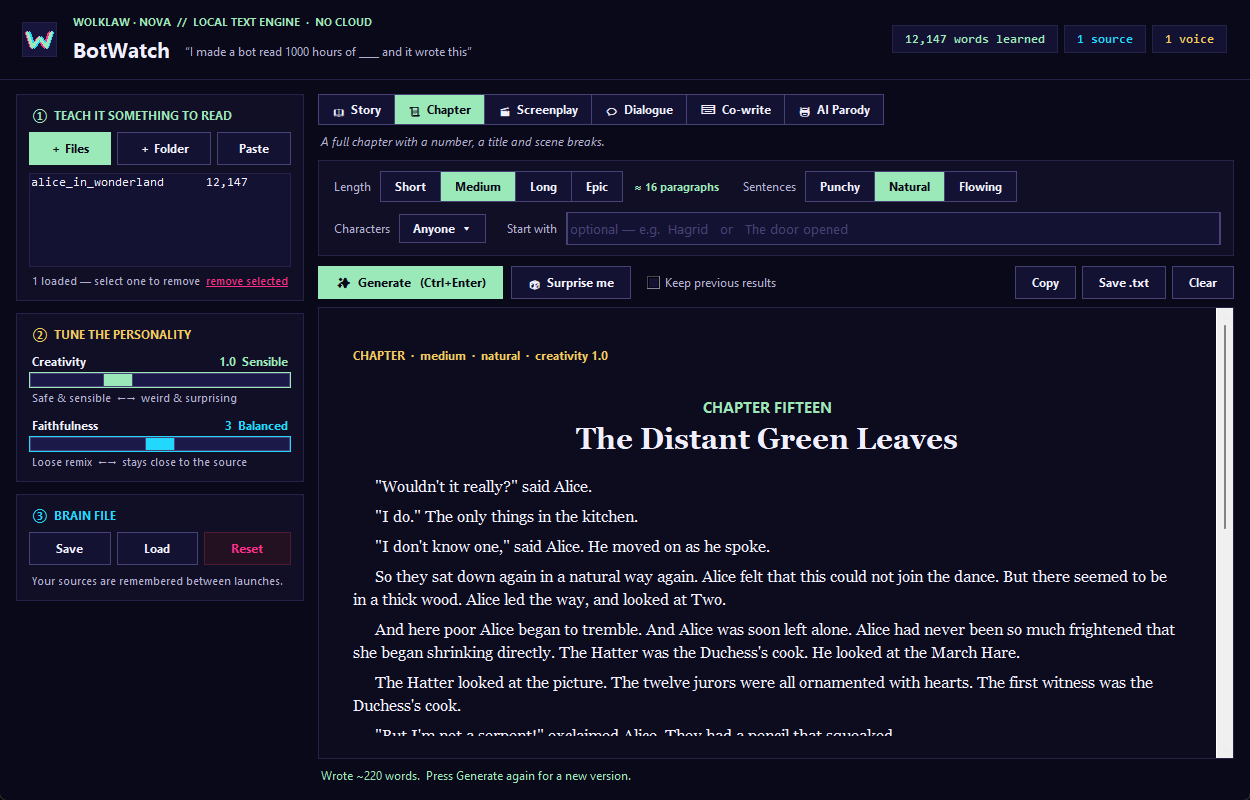
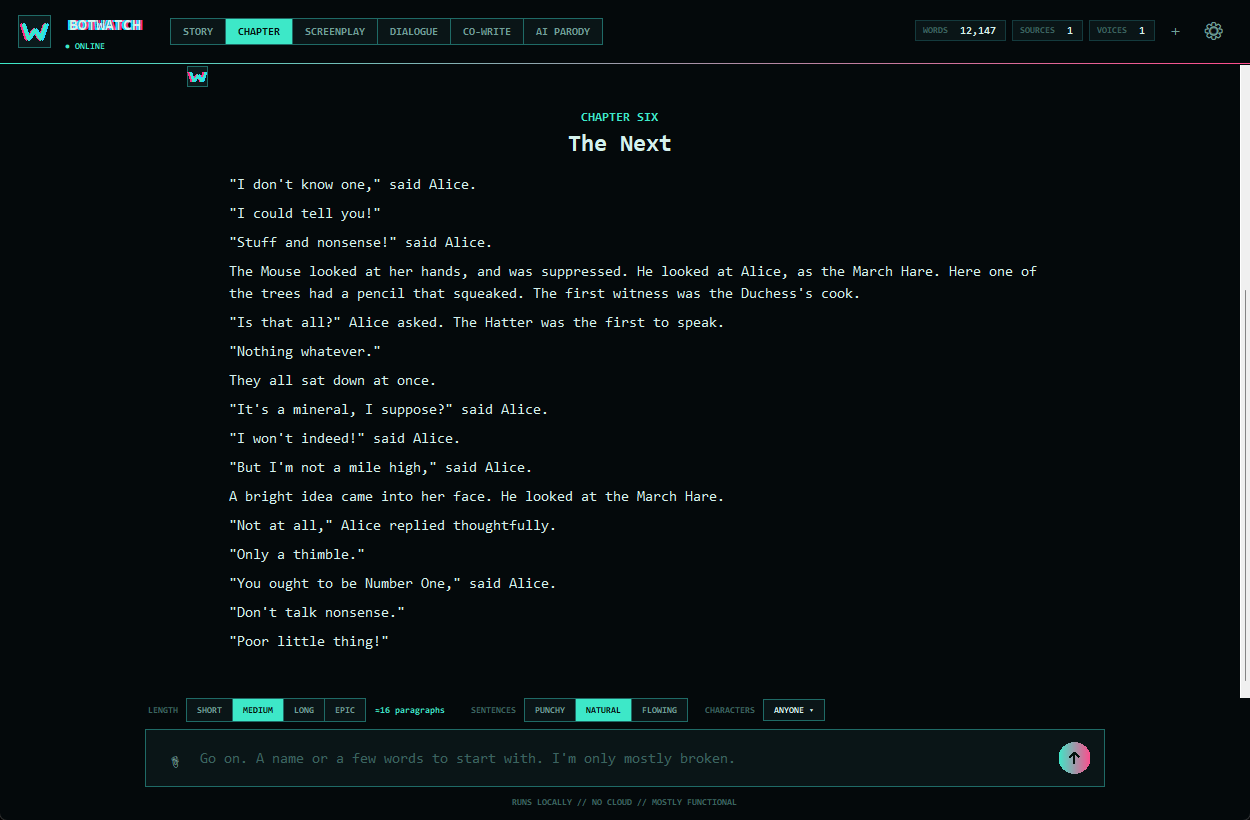
README and screenshots for BotWatch 1.1.0 (Nova-style UI, AI providers)

diff --git a/README.md b/README.md
@@ -3,22 +3,24 @@
 # BotWatch
 
 **Feed a bot some text. It learns how it sounds, then writes something new in the same voice.**
-Stories, chapters, screenplays and dialogue, with each character keeping their own voice. Runs entirely on your Windows PC: no cloud, no account, no telemetry.
+Stories, chapters, screenplays and dialogue, with each character keeping their own voice. Runs on your Windows PC: no account, no telemetry, and nothing leaves your PC unless you choose a cloud AI provider for the optional AI Parody mode.
 
 ### [⬇ Download BotWatch.exe (latest release)](https://github.com/Wolklaw/botwatch-releases/releases/latest)
 
-No installer: download the `.exe` and double-click it. A first-launch Windows SmartScreen warning ("unknown publisher") is expected for small unsigned apps; choose *More info → Run anyway*. The release includes a SHA-256 checksum, and a public-domain sample book (*Alice's Adventures in Wonderland*) to try it with.
+No installer: download the `.exe` and double-click it. A first-launch Windows SmartScreen warning ("unknown publisher") is expected for small unsigned apps; choose *More info → Run anyway*. The release includes a SHA-256 checksum. The app has the public-domain sample book (*Alice's Adventures in Wonderland*) built in: click **Try the Alice sample** on the start screen.
 
-Part of [wolklaw.dev](https://wolklaw.dev).
+Part of [wolklaw.dev](https://wolklaw.dev), styled like [Nova](https://wolklaw.dev/projects/nova/).
 
-![Chapter mode](screenshots/02-chapter.png)
+![Start screen](screenshots/01-hero.png)
 
 ## How to use it
 
-1. **Teach it**: click **＋ Files** or **＋ Folder** and pick some `.txt` books, scripts or lyrics (try the included Alice sample). More text means better writing. Your sources are remembered next launch.
-2. **Pick what to write**: **Story**, **Chapter**, **Screenplay**, **Dialogue**, **Co-write** or **AI Parody**.
-3. **Shape it**: choose a length (Short to Epic), sentence style (Punchy / Natural / Flowing), which characters speak, and optionally some words to start with (`Alice`, `The door opened`).
-4. **Press Generate** (Ctrl+Enter). Press it again for a new version. 🎲 **Surprise me** picks random settings.
+1. **Teach it**: **Add text files**, **Add a folder**, **Paste text**, or try the Alice sample. More text means better writing. Your sources are remembered next launch.
+2. **Pick a mode** in the top bar: **Story**, **Chapter**, **Screenplay**, **Dialogue**, **Co-write** or **AI Parody**.
+3. **Shape it** under the chat box: length (Short to Epic), sentence style (Punchy / Natural / Flowing), which characters speak. Type a name (`Alice`) or a few words (`The door opened`) to start with.
+4. **Press send** (or Ctrl+Enter). Press it again for a new version. Results arrive as a chat; click or Esc skips the glitchy decode animation.
+
+![Chapter mode](screenshots/02-chapter.png)
 
 | Screenplay | Co-write |
 |---|---|
@@ -26,15 +28,24 @@ Part of [wolklaw.dev](https://wolklaw.dev).
 
 ## The modes
 
-- **Story / Chapter / Screenplay / Dialogue**: pure Markov-chain writing, fully offline. It cleans the text, learns who says each line, and filters out repeats, unfinished sentences and long copies of the source.
-- **⌨ Co-write**: *you* write; the bot suggests the 24 most likely next words (click, or Tab / Alt+1…9). Pick a Voice to write like one character, or let it **Auto-write a sentence**. This is how the famous "predictive text wrote a chapter" memes are made.
-- **🤖 AI Parody** *(optional)*: asks a language model to write a deadpan, absurd chapter using your text's cast and voice. Use **Ollama** (local and free) or your own **Anthropic API key**. Only this mode can send anything off your PC, and only if you choose Anthropic (your premise and short samples of your text are sent; you can turn samples off in ⚙ AI settings).
+- **Story / Chapter / Screenplay / Dialogue**: Markov-chain writing, fully offline. It cleans the text, learns who says each line, and filters out repeats, fragments, run-ons and long copies of the source.
+- **⌨ Co-write**: *you* write; the bot suggests the 24 most likely next words (click, or Tab / Alt+1…9). Pick a Voice to write like one character, or press send to let it finish your sentence.
+- **🤖 AI Parody** *(optional)*: a language model writes a deadpan, absurd chapter using your text's cast and voice. Choose your provider in **Settings → AI**:
+  - **Local (stays on your PC):** **Nova** (uses Nova's running engine, or starts Nova's chat model), **Ollama**, or any OpenAI-compatible local server such as LM Studio or llama.cpp.
+  - **Cloud (needs your own API key):** **Anthropic (Claude)**, **OpenAI**, **Google Gemini**, **OpenRouter**, **Groq**, **Mistral**, **xAI (Grok)**, **DeepSeek**, **Together AI**, or any custom OpenAI-compatible endpoint. With a cloud provider, your premise and (if you leave it ticked) short samples of your text are sent to that provider. Keys are stored encrypted for your Windows account.
+
+![AI settings](screenshots/05-ai-settings.png)
+
+## Settings
+
+⚙ in the top-right: **Personality** (Stable / Mildly broken / Very broken, plus fine-tuning), **Faithfulness** (loose remix to close to the source), **Glitch level** (Off / Low / Full), the decode animation, your sources and brain file, and the AI provider.
 
 ## Good to know
 
 - Windows 10/11, 64-bit. Plain UTF-8 `.txt` files work best.
-- Settings are saved to `.botwatch_settings.json` in your user folder. If you use the Anthropic provider, the key is stored there too.
+- Settings are saved to `.botwatch_settings.json` in your user folder.
 - Books whose text lost its quote marks (bad OCR) are used for narration only.
+- Provider model names change over time; use **Fetch models** in the AI settings to see what your key can use.
 
 ## Feedback
 
